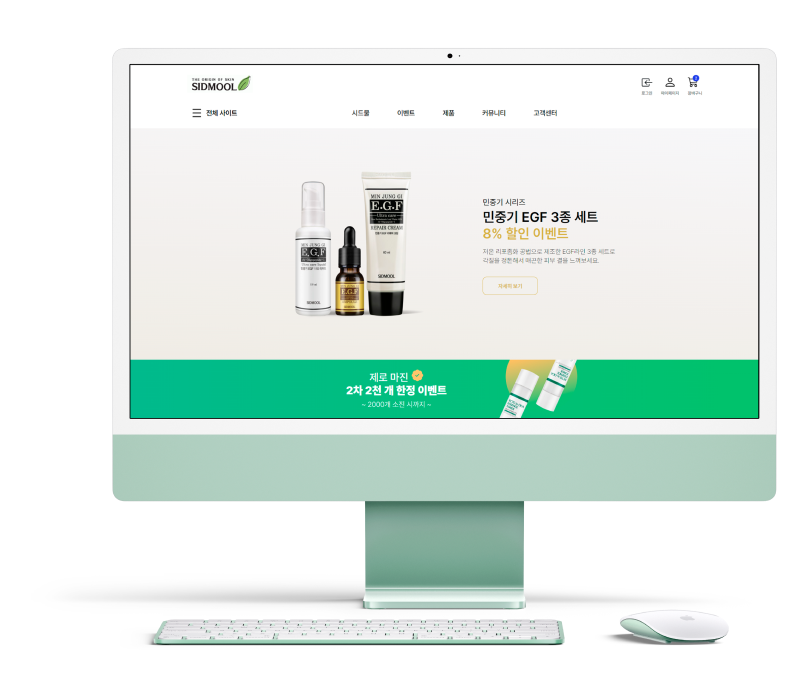
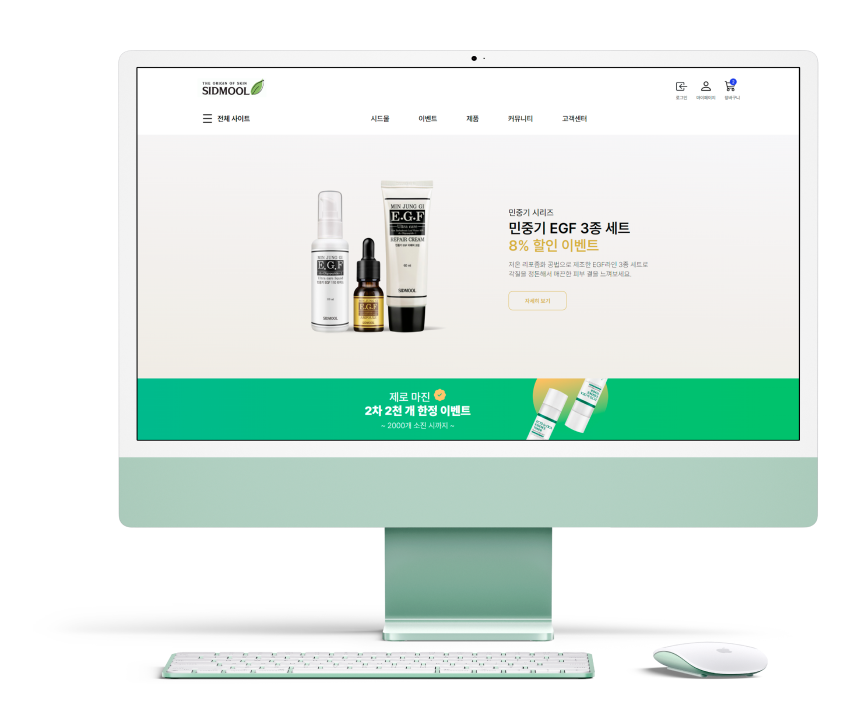
3.25date  commit

diff --git a/css/style.css b/css/style.css
@@ -525,8 +525,9 @@ nav a:hover{color: #000;}
   width: 1440px;
   height: 682px;
   position: absolute;
-  top: 125px;
-  left: 200px;
+  top: 165px;
+  left: 50%;
+  transform: translateX(-50%);
   padding: 41px 51px;
   box-sizing: border-box;
   border: 3px solid #000;
@@ -703,12 +704,10 @@ nav a:hover{color: #000;}
   width: 94%;
   display: flex;
   gap: 4rem;
-  margin: 100px 0 0 6rem;
+  margin: 100px 0 0 7rem;
 }
 
-.project_left{
-  width: 570px;
-}
+.project_left{width: 680px;}
 
 .project_left_top{
   display: flex;
@@ -719,7 +718,7 @@ nav a:hover{color: #000;}
 }
 
 .project_left_top>h5{
-  font-size: 16px;
+  font-size: 20px;
   font-weight: 700;
 }
 
@@ -730,33 +729,34 @@ nav a:hover{color: #000;}
 }
 
 .project_left_middle{
-  margin: 90px 0 60px;
+  margin: 110px 0 60px;
   padding-left: 1rem;
 }
 
 .project_left_middle>h4{
-  font-size: 24px;
+  font-size: 30px;
   font-weight: 700;
   color: var(--mainColor);
   font-family: var(--font-title);
 }
 
 .project_left_middle>h3{
-  font-size: 38px;
+  font-size: 45px;
   font-weight: 700;
   margin-top: 10px;
 }
 
 .project_left_middle>p{
-  font-size: 17px;
+  font-size: 19px;
   font-weight: 400;
   margin-top: 30px;
-  line-height: 1.7rem;
+  line-height: 2rem;
 }
 
 .project_left_bottom{
   width: 440px;
   height: 250px;
+  margin-left: 1rem;
   padding: 2rem;
   font-size: 17px;
   background: url(../images/project/project_desc_bg.png) no-repeat center center;
@@ -822,11 +822,11 @@ nav a:hover{color: #000;}
 }
 
 .project_right-gif{
-  width: 632px;
-  height: 358px;
+  width: 667px;
+  height: 375px;
   position: absolute;
-  top: 112px;
-  left: 128px;
+  top: 114px;
+  left: 135px;
   background: url(../images/project/Animation.gif) no-repeat top;
   background-size: cover;
   overflow: hidden;
